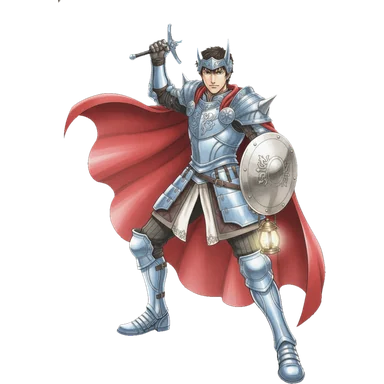
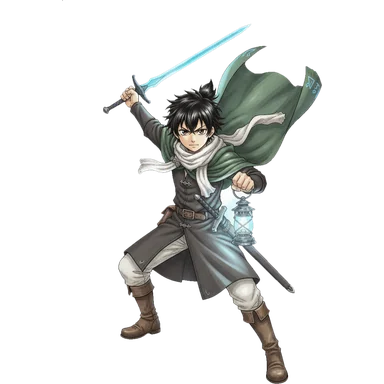
さとしを作り直し（少年漫画の主人公・旅人のまま6段階、表情と構えの差分）
Claude-Session: https://claude.ai/code/session_019xnD9zf1824211ZEpgvXov

diff --git a/habit-check/public/sw.js b/habit-check/public/sw.js
@@ -1,5 +1,5 @@
 // 画面ファイルだけをキャッシュする（/api は常にネットワーク）
-const CACHE = "habit-check-v11";
+const CACHE = "habit-check-v12";
 const SHELL = ["./", "index.html", "app.js", "aibou.js", "aibou-sprites.js", "art-index.js", "theater.js", "theater-gl.js", "theater-script.js", "theater-speakers.js", "theater-stage.js", "style.css", "manifest.webmanifest", "icons/icon-192.png", "img/walnut.jpg", "img/oak.jpg"];
 
 self.addEventListener("install", (e) => {
